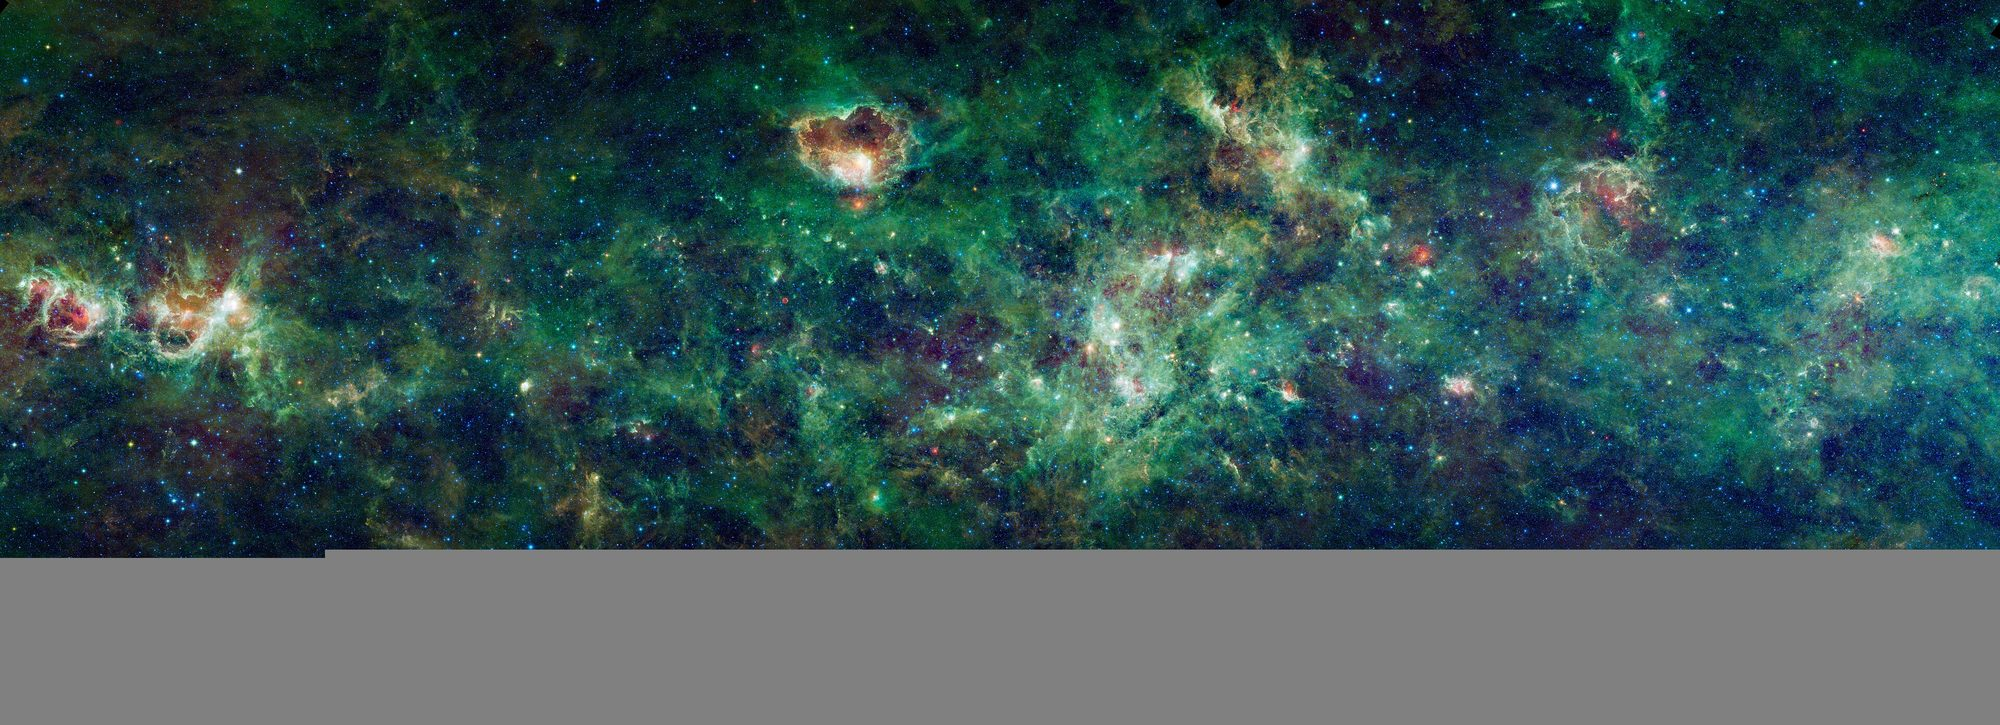
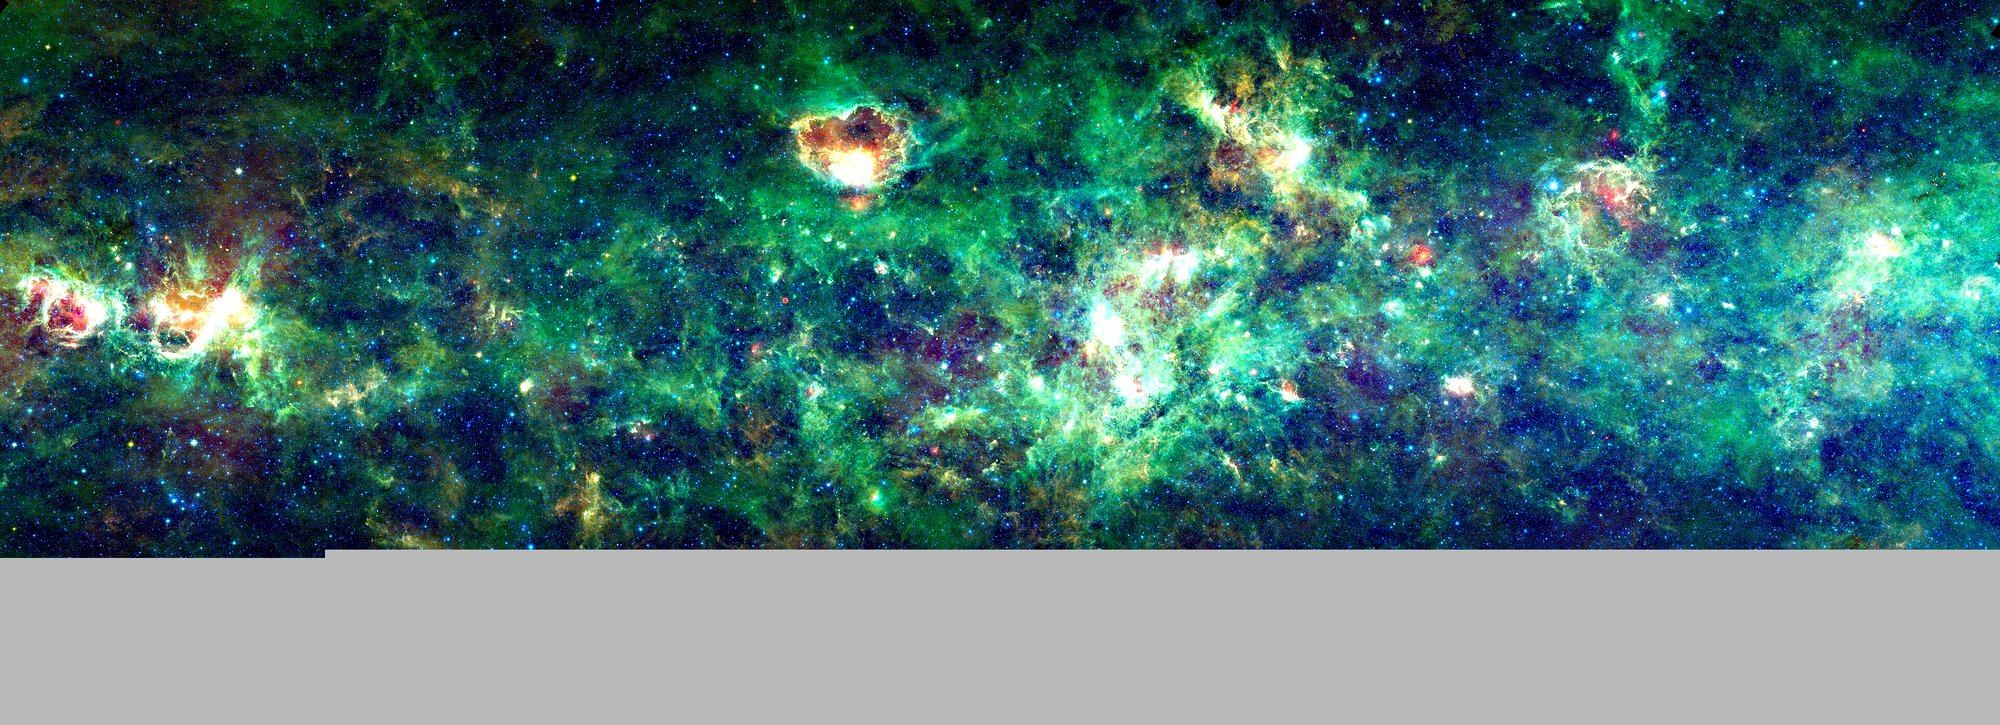
enhance(brand): brighten the galaxy (1.35/1.2/1.1) and lower the mask
The bright band of the Milky Way is clearly visible.

diff --git a/src/styles/global.css b/src/styles/global.css
@@ -94,7 +94,7 @@ hr{border:none;border-top:1px solid var(--border);margin:var(--space-2xl) 0}
 .hamburger.open span:nth-child(3){transform:translateY(-6px) rotate(-45deg)}
 
 /* ── 7. Hero（专业分层版）─────────────────────────────────────── */
-.hero{position:relative;overflow:hidden;padding:var(--space-3xl) 0 var(--space-2xl);background-color:var(--bg);background-image:linear-gradient(170deg,color-mix(in srgb,var(--brand-bg) 58%,transparent) 0%,color-mix(in srgb,var(--bg) 42%,transparent) 50%,color-mix(in srgb,var(--bg) 60%,transparent) 100%),var(--hero-image);background-size:auto,cover;background-position:center;background-repeat:no-repeat,no-repeat;border-bottom:1px solid var(--border-light);text-align:center}
+.hero{position:relative;overflow:hidden;padding:var(--space-3xl) 0 var(--space-2xl);background-color:var(--bg);background-image:linear-gradient(170deg,color-mix(in srgb,var(--brand-bg) 46%,transparent) 0%,color-mix(in srgb,var(--bg) 32%,transparent) 50%,color-mix(in srgb,var(--bg) 50%,transparent) 100%),var(--hero-image);background-size:auto,cover;background-position:center;background-repeat:no-repeat,no-repeat;border-bottom:1px solid var(--border-light);text-align:center}
 /* hero 星空：星点漂移 + 整体缓慢浮动（白星 + 主题色星交替，颜色随 --fx-particle，如 cyber 青色星云） */
 .hero::before{content:"";position:absolute;inset:0;pointer-events:none;opacity:.95;background-image:
   radial-gradient(3px 3px at 8% 25%,#fff 70%,transparent),
